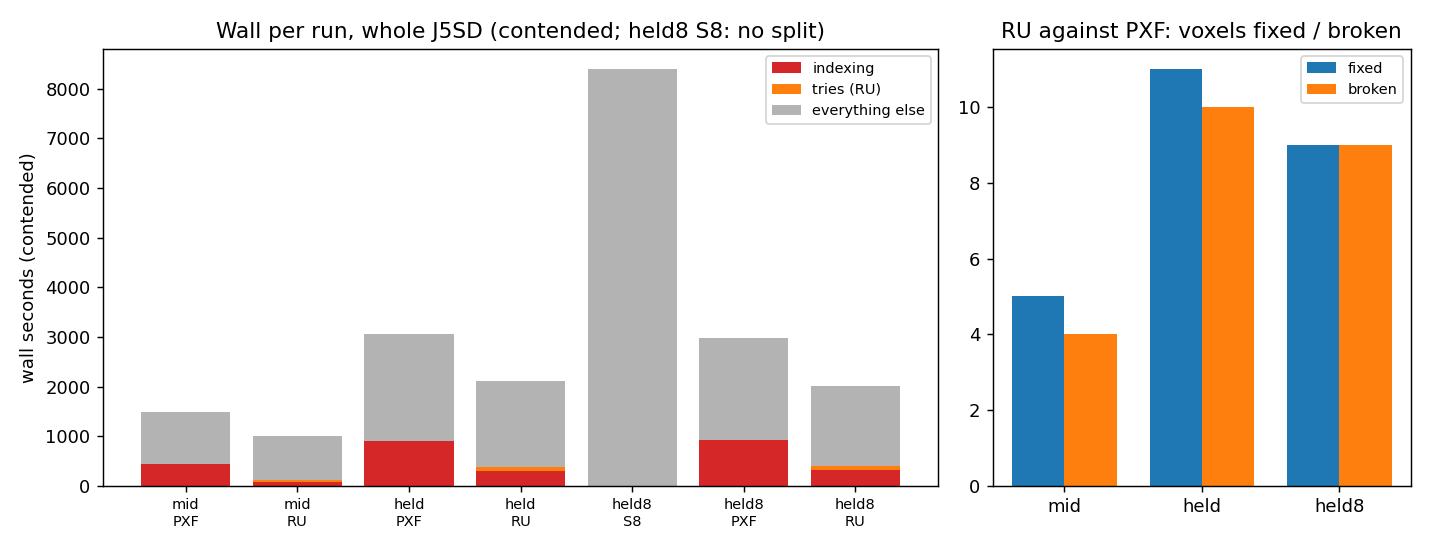
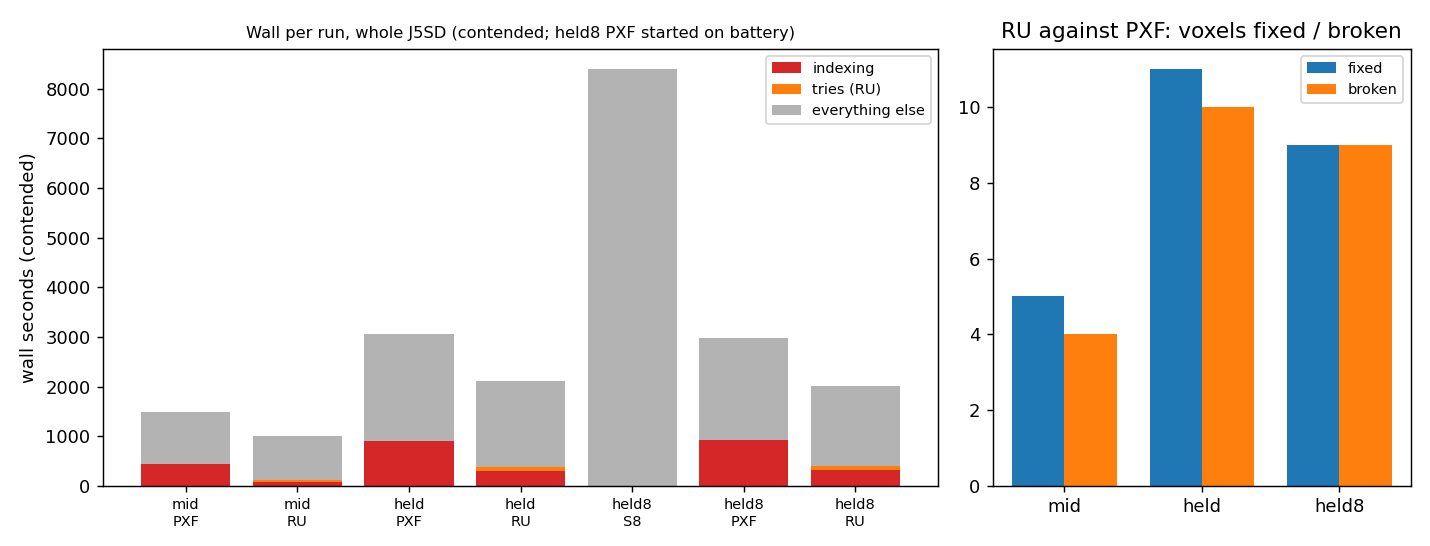
AR5 step 29 phase A: review fixes (battery start, pilot wording and counts, freeze-pin gap, labels, stale freeze note)

Changed region(s): [[0.1538, 0.0311, 0.5846, 0.0934]]

diff --git a/icenine_py/scripts/autoresearch/ar5/ru_summary.py b/icenine_py/scripts/autoresearch/ar5/ru_summary.py
@@ -64,8 +64,8 @@ def tables(live: Any, h8: Any) -> Dict[str, str]:
                     "failed tries": c["failed_tries"],
                     "try evals": f"{c['try_evals']:,}",
                     "indexing calls": f"{c['index_calls']:,}",
-                    "try s": f"{c['try_seconds']:.0f}",
-                    "indexing s": f"{c['index_seconds']:.0f}",
+                    "try s (contended)": f"{c['try_seconds']:.0f}",
+                    "indexing s (contended)": f"{c['index_seconds']:.0f}",
                 }
             )
             wl.append(
@@ -120,7 +120,7 @@ def tables(live: Any, h8: Any) -> Dict[str, str]:
                 "evals": f"{t[k]:,}",
                 "wrong": h8["wrong"][k]["n"],
                 "median error (deg)": f"{h8['median_err_deg'][k]:.5f}",
-                "wall s": h8["job"][k]["wall_s"],
+                "wall s (contended, unpaired; PXF started on battery)": h8["job"][k]["wall_s"],
                 "label": h8["job"][k]["label"],
             }
             for a, k in (("S8", "s8"), ("PXF J5SD", "pxf"), ("RU J5SD", "ru"))
@@ -209,7 +209,7 @@ def plot(live: Any, h8: Any) -> Optional[Path]:
     a1.set_xticks(x)
     a1.set_xticklabels(labels, fontsize=8)
     a1.set_ylabel("wall seconds (contended)")
-    a1.set_title("Wall per run, whole J5SD (contended; held8 S8: no split)")
+    a1.set_title("Wall per run, whole J5SD (contended; held8 PXF started on battery)", fontsize=9)
     a1.legend(fontsize=8)
     names = list(live["rows"])
     br = [live["rows"][s]["new_vs_old"] for s in names]

diff --git a/icenine_py/MIGRATION_HISTORY.md b/icenine_py/MIGRATION_HISTORY.md
@@ -14080,21 +14080,41 @@ step 28's `PXF` seed step runs unchanged. Frozen in `benchmarks/autoresearch/ar5
 - **Gates on `mid`, `held` (in-sample).** r1: 16,648,743 evaluations against 23,402,740, 28.9% fewer
   (bar 15%). r2: broken minus fixed -1 on both (`mid` 5 fixed / 4 broken, `held` 11 / 10; bar 3);
   median error lower by 0.00044 and 0.00067 degree (bar +0.001); grid searches 0 / 0 and 2 / 2.
-  r3: pooled wall 3,104 s against 4,545 s, 31.7% lower (bar 15%). All met; no gate changed.
+  r3: pooled wall (contended) 3,104 s against 4,545 s, 31.7% lower (bar 15%). All met; no gate
+  changed.
 - **Seed steps ended by a try.** `mid` 1,403 of 1,719 (81.6%, Wilson 79.7% to 83.4%), `held` 2,721 of
   3,736 (72.8%, 71.4% to 74.2%); the predictions 72% to 85% and 62% to 76% held.
 - **Clean test `held8` (generator seed 8).** h1 against `S8` (58,102,056 evaluations, 49 wrong):
   10,905,900, 81.2% fewer, 30 fixed / 7 broken, median -0.00549 degree. h2 against `PXF` J5SD
   (16,226,609, 26 wrong): 32.8% fewer (prediction 15% to 30%: above it), 9 fixed / 9 broken, median
   -0.00060 degree. Both met. Walls 8,390 s (`S8`), 2,980 s (`PXF`), 2,008 s (`RU`), contended, not
-  paired in one session. 2,564 of 3,532 seed steps (72.6%, 71.1% to 74.0%) ended by a try.
+  paired in one session, and the `PXF` arm started on battery power (preflight
+  `preflight_live_pxf_held8.json`: `"power": "battery"`, a `cpptools` process at 99% CPU; every other
+  preflight of this step shows AC), so the held8 `PXF`/`RU` wall gap is not like for like and is not
+  quoted as a saving (h2 gates evaluations only). 2,564 of 3,532 seed steps (72.6%, 71.1% to 74.0%) ended by a try.
 - **Deviations.** `ru_common` sets `PXF_PRE_FREEZE=1`: step 28's own freeze check (`pxf/frozen.json`
   hashes against the library as of step 28's phase A) cannot agree after its phase B keys changed
   `config_file.py` and `reconstructor.py`; `ru/frozen.json` pins in its place every library file, the
-  scripts of this step and every script that step 28 and older steps list. The `--smoke 40` pilot
-  covered the whole `mid` seed layer (1,434 of 1,728 steps ended by a try); only its validity counts
-  were read, and nothing in the rule or gates changed afterwards. `mid` and `held` data were rebuilt
-  (truth hashes and the `held` stack's lit-pixel count match the stored records).
+  scripts of this step and every script that step 28's list names (that list covers older steps
+  too). It is not true that every executed script is pinned: `ar3/seed_pick.py` (the class RU
+  wraps), `ar5/screen_run.py` and `ar5/screen_pass.py` (the screen arm), and `ar3/reseed_s8.py`,
+  `ar3/run_seed.py`, `ar3/run_wrapped.py` (imported by `fit_run.py` for `S8`) are not in the list;
+  step 28's list had the same gap. Git shows all of them last changed on 2026-11-10 to 11-15, before
+  step 28 ran, and each run's `order.json` records head 8a2f7e32 with only `ru_score.py` and
+  `ru_summary.py` untracked, so the tracked tree equalled the freeze commit. For phase B the import
+  closure of the run scripts goes into `OWN`. The note in `frozen.json` that refers to a
+  `freeze_history.json` is stale template text: there was exactly one freeze (8a2f7e32) and no such
+  file; the committed freeze is not edited. The `--smoke 40` pilot was a full J5D BFS of `mid` (all
+  24,570 voxels, 1,728 seed steps of which 1,715 reseeds, 603 s, contended), with RU, without the
+  boundary pass and the screen arm; its map was not scored. The counts read from it are in
+  `pilot.json`: 1,434 of 1,728 steps ended by a try (83.0%), 223 by the second fit, lowest accepted
+  hit ratio 0.95. Nothing in the rule or gates changed afterwards (the live stage began after the
+  freeze check at its start, and the freeze still agrees). `mid` and `held` data were rebuilt (truth
+  hashes and the `held` stack's lit-pixel count match the stored records). The hit ratio of each fit
+  end is one extra overlap evaluation, not counted as in the library (frozen rule): 2,159 on `mid`,
+  5,233 on `held`, 4,956 on `held8`, 0.044% of r1's evaluations; phase B can reuse the fit's own
+  overlap. "Start accepted at that moment" was asserted live with the same predicate as the filter
+  (state FITTED), not replayed from the logs.
 - **Limits.** `mid`, `held` in-sample; `held8` one sample; walls contended and unpaired; the old arm
   is stored (built on the library before step 28's keys; its off path is claimed bit-identical);
   copper only. Phase B (key `SeedReuseKnown`) needs a new decision.

diff --git a/icenine_py/benchmarks/autoresearch/ar5/ru/tables.md b/icenine_py/benchmarks/autoresearch/ar5/ru/tables.md
@@ -8,7 +8,7 @@
 <!-- /table:ru_gates -->
 
 <!-- table:ru_held8_arms -->
-| arm | evals | wrong | median error (deg) | wall s | label |
+| arm | evals | wrong | median error (deg) | wall s (contended, unpaired; PXF started on battery) | label |
 |---|---|---|---|---|---|
 | S8 | 58,102,056 | 49 | 0.02756 | 8390 | contended |
 | PXF J5SD | 16,226,609 | 26 | 0.02267 | 2980 | contended |
@@ -36,7 +36,7 @@
 <!-- /table:ru_live_evals -->
 
 <!-- table:ru_live_tries -->
-| sample | seed steps | ended by a try | Wilson 95% | first fit / second fit | failed tries | try evals | indexing calls | try s | indexing s |
+| sample | seed steps | ended by a try | Wilson 95% | first fit / second fit | failed tries | try evals | indexing calls | try s (contended) | indexing s (contended) |
 |---|---|---|---|---|---|---|---|---|---|
 | mid | 1,719 | 1,403 (81.6%) | 79.7% to 83.4% | 1208 / 195 | 315 | 447,703 | 321 | 37 | 78 |
 | held | 3,736 | 2,721 (72.8%) | 71.4% to 74.2% | 2122 / 599 | 1014 | 1,081,713 | 1,059 | 90 | 296 |
